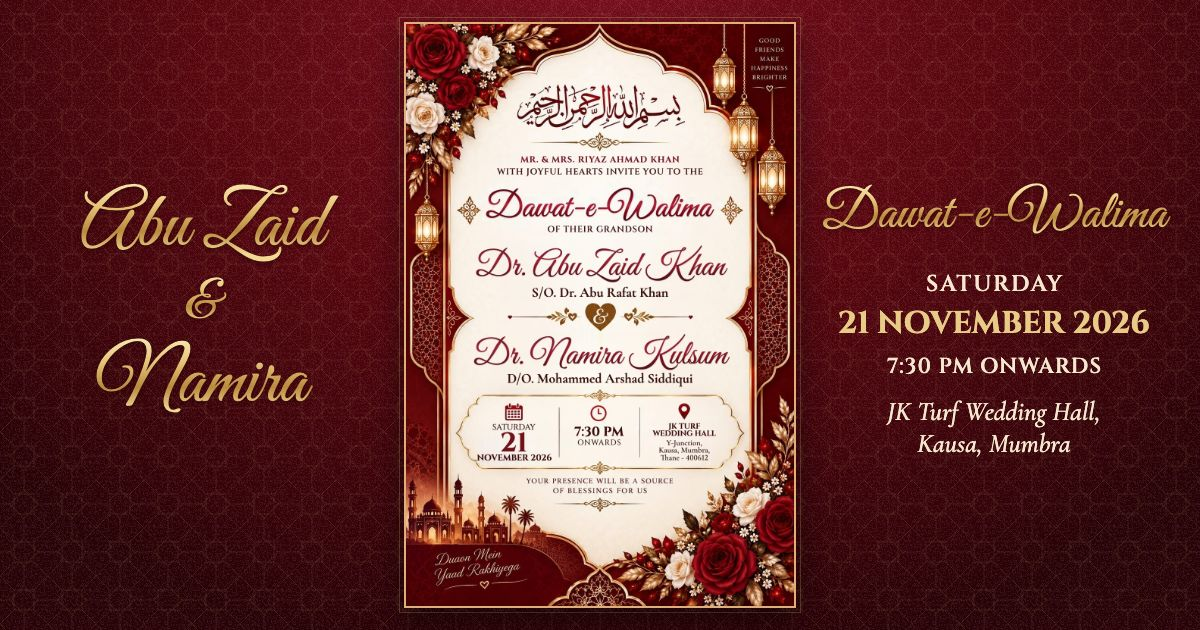
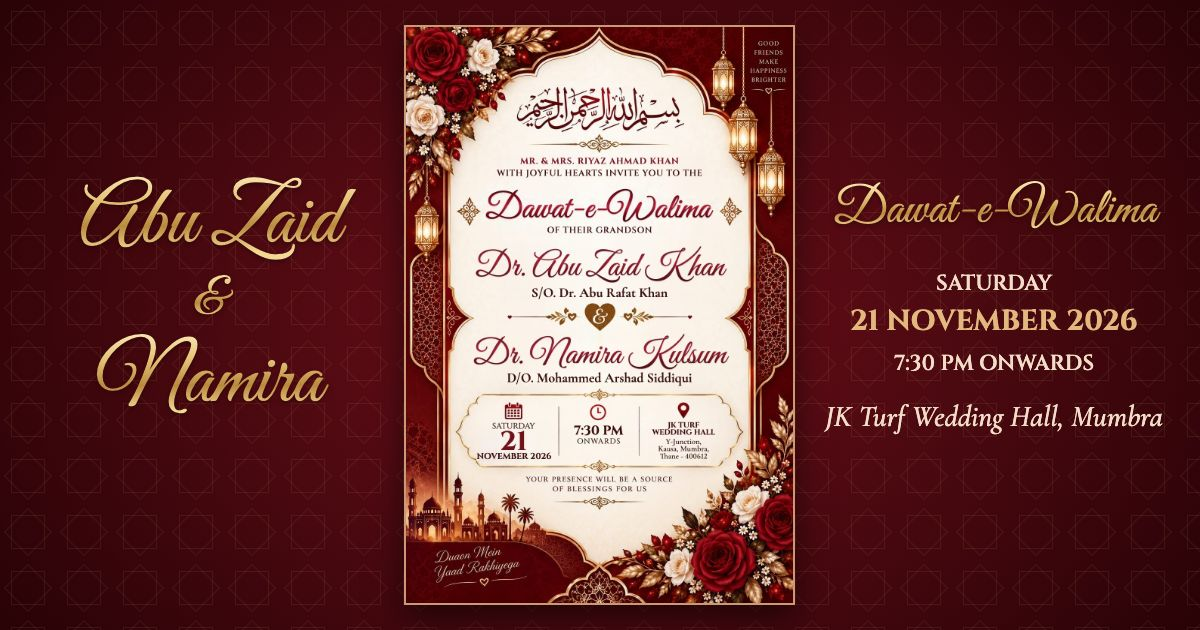
fixed

diff --git a/index.html b/index.html
@@ -13,8 +13,8 @@
 <meta property="og:site_name" content="Abu Zaid &amp; Namira Walima">
 <meta property="og:title" content="Dawat-e-Walima of Abu Zaid &amp; Namira">
 <meta property="og:description" content="Saturday, 21 November 2026, 7:30 PM onwards. JK Turf Wedding Hall, Kausa, Mumbra.">
-<meta property="og:url" content="https://abuzaidandnamira.vercel.app/">
-<meta property="og:image" content="https://abuzaidandnamira.vercel.app/og.jpg">
+<meta property="og:url" content="https://invitation-abuzaid-namira.vercel.app/">
+<meta property="og:image" content="https://invitation-abuzaid-namira.vercel.app/og.jpg">
 <meta property="og:image:width" content="1200">
 <meta property="og:image:height" content="630">
 <meta property="og:image:type" content="image/jpeg">

diff --git a/send.html b/send.html
@@ -76,7 +76,7 @@ summary{cursor:pointer;color:var(--wine);font-weight:600}
   <section class="step" aria-labelledby="s1">
     <h2 id="s1"><span class="n">1</span>Your invite website</h2>
     <p class="hint">The link of your hosted invite. Each guest gets this link with their own name added.</p>
-    <input type="url" id="base" inputmode="url" autocomplete="off" spellcheck="false" value="https://abuzaidandnamira.vercel.app/">
+    <input type="url" id="base" inputmode="url" autocomplete="off" spellcheck="false" value="https://invitation-abuzaid-namira.vercel.app/">
   </section>
 
   <section class="step" aria-labelledby="s2">
